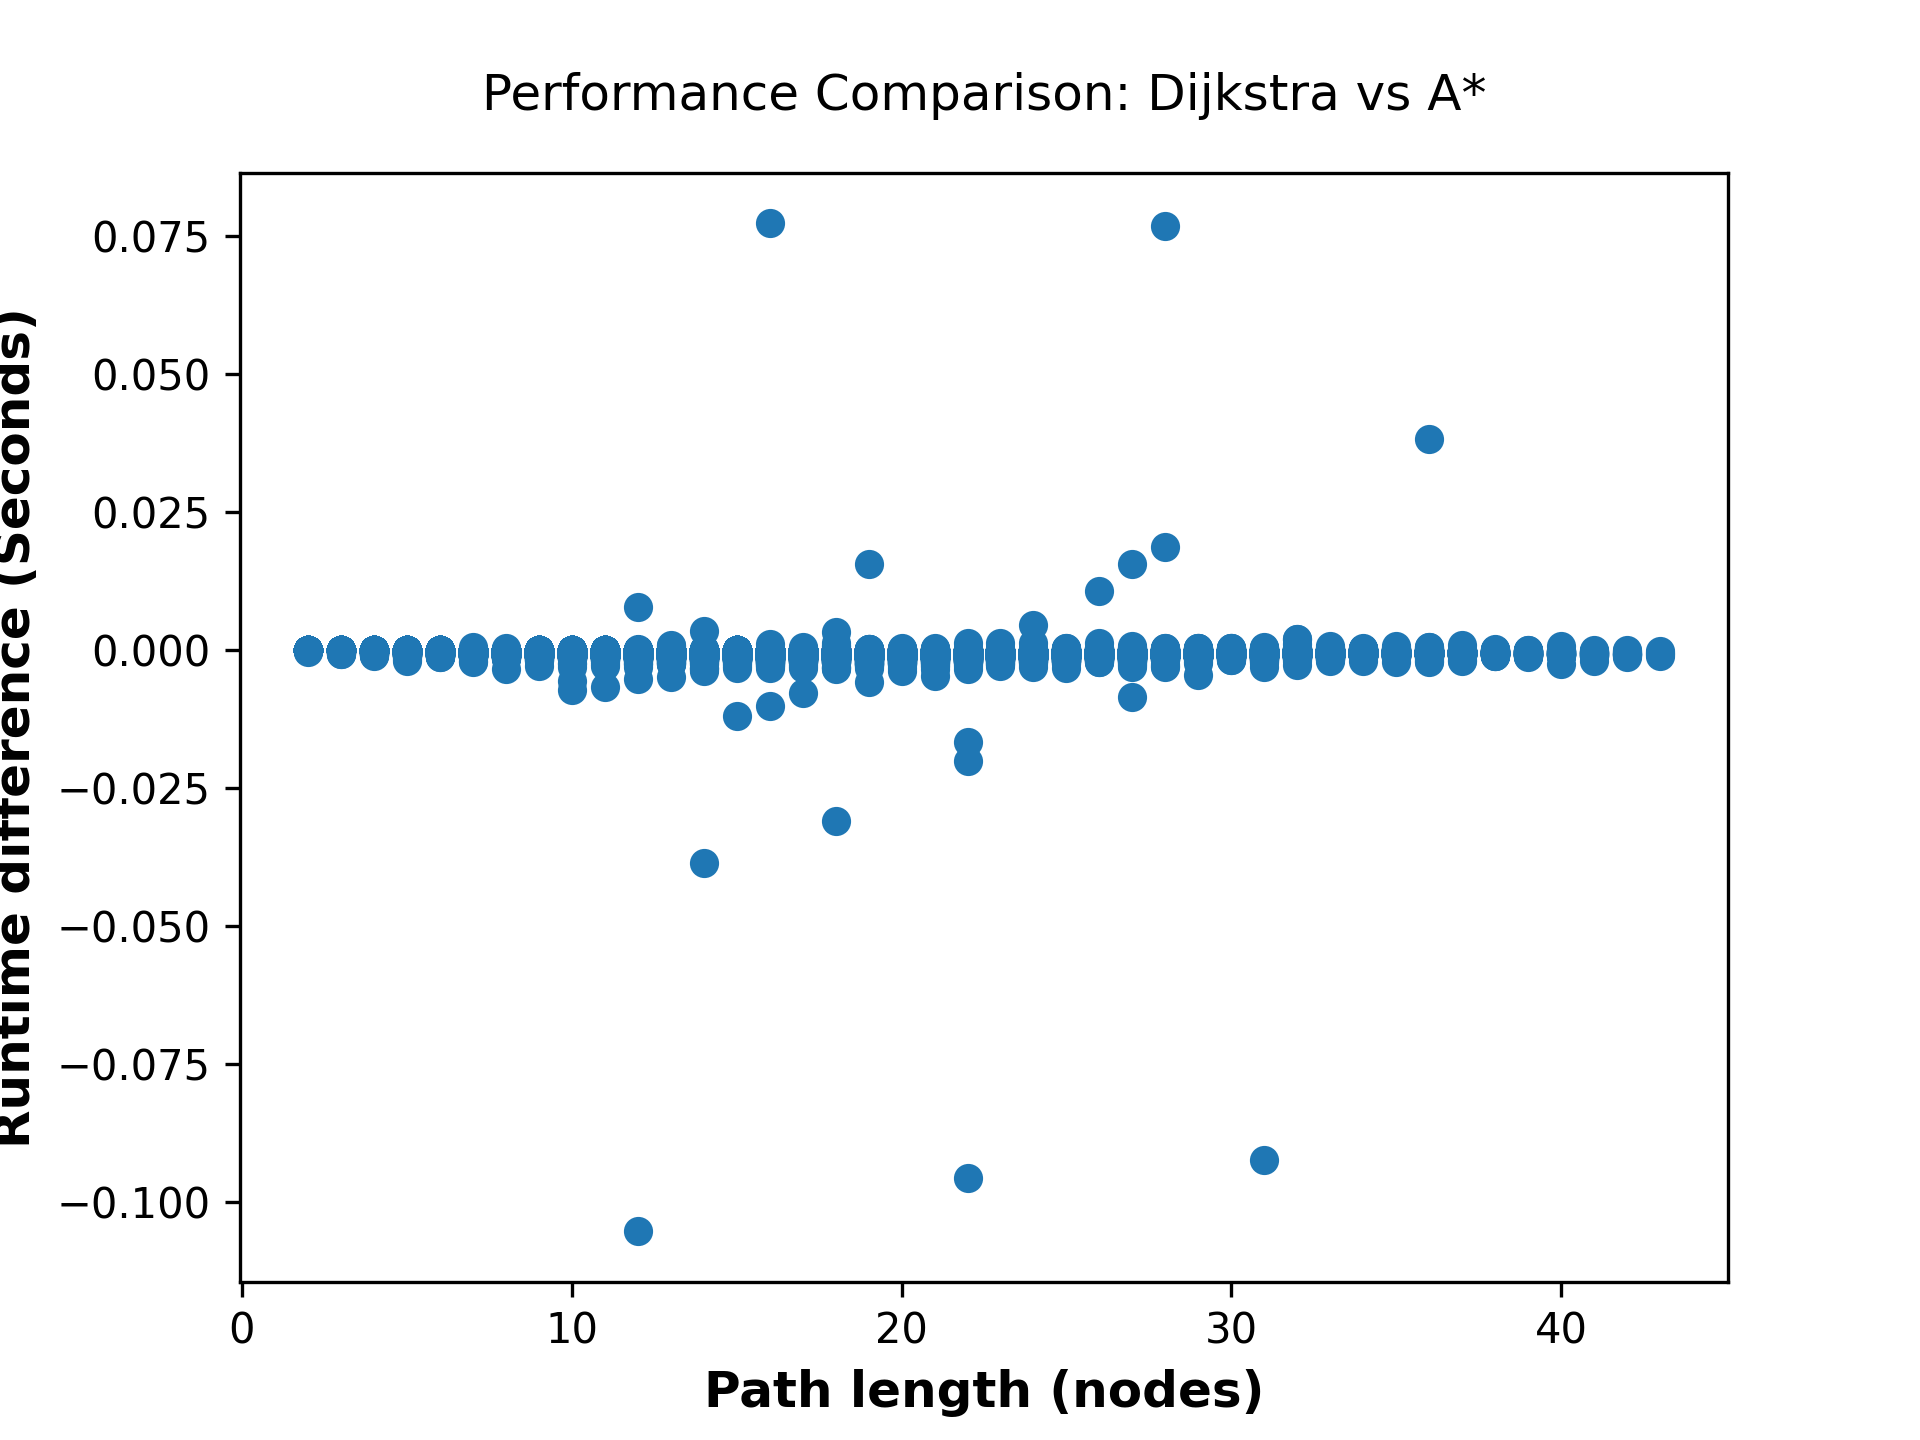
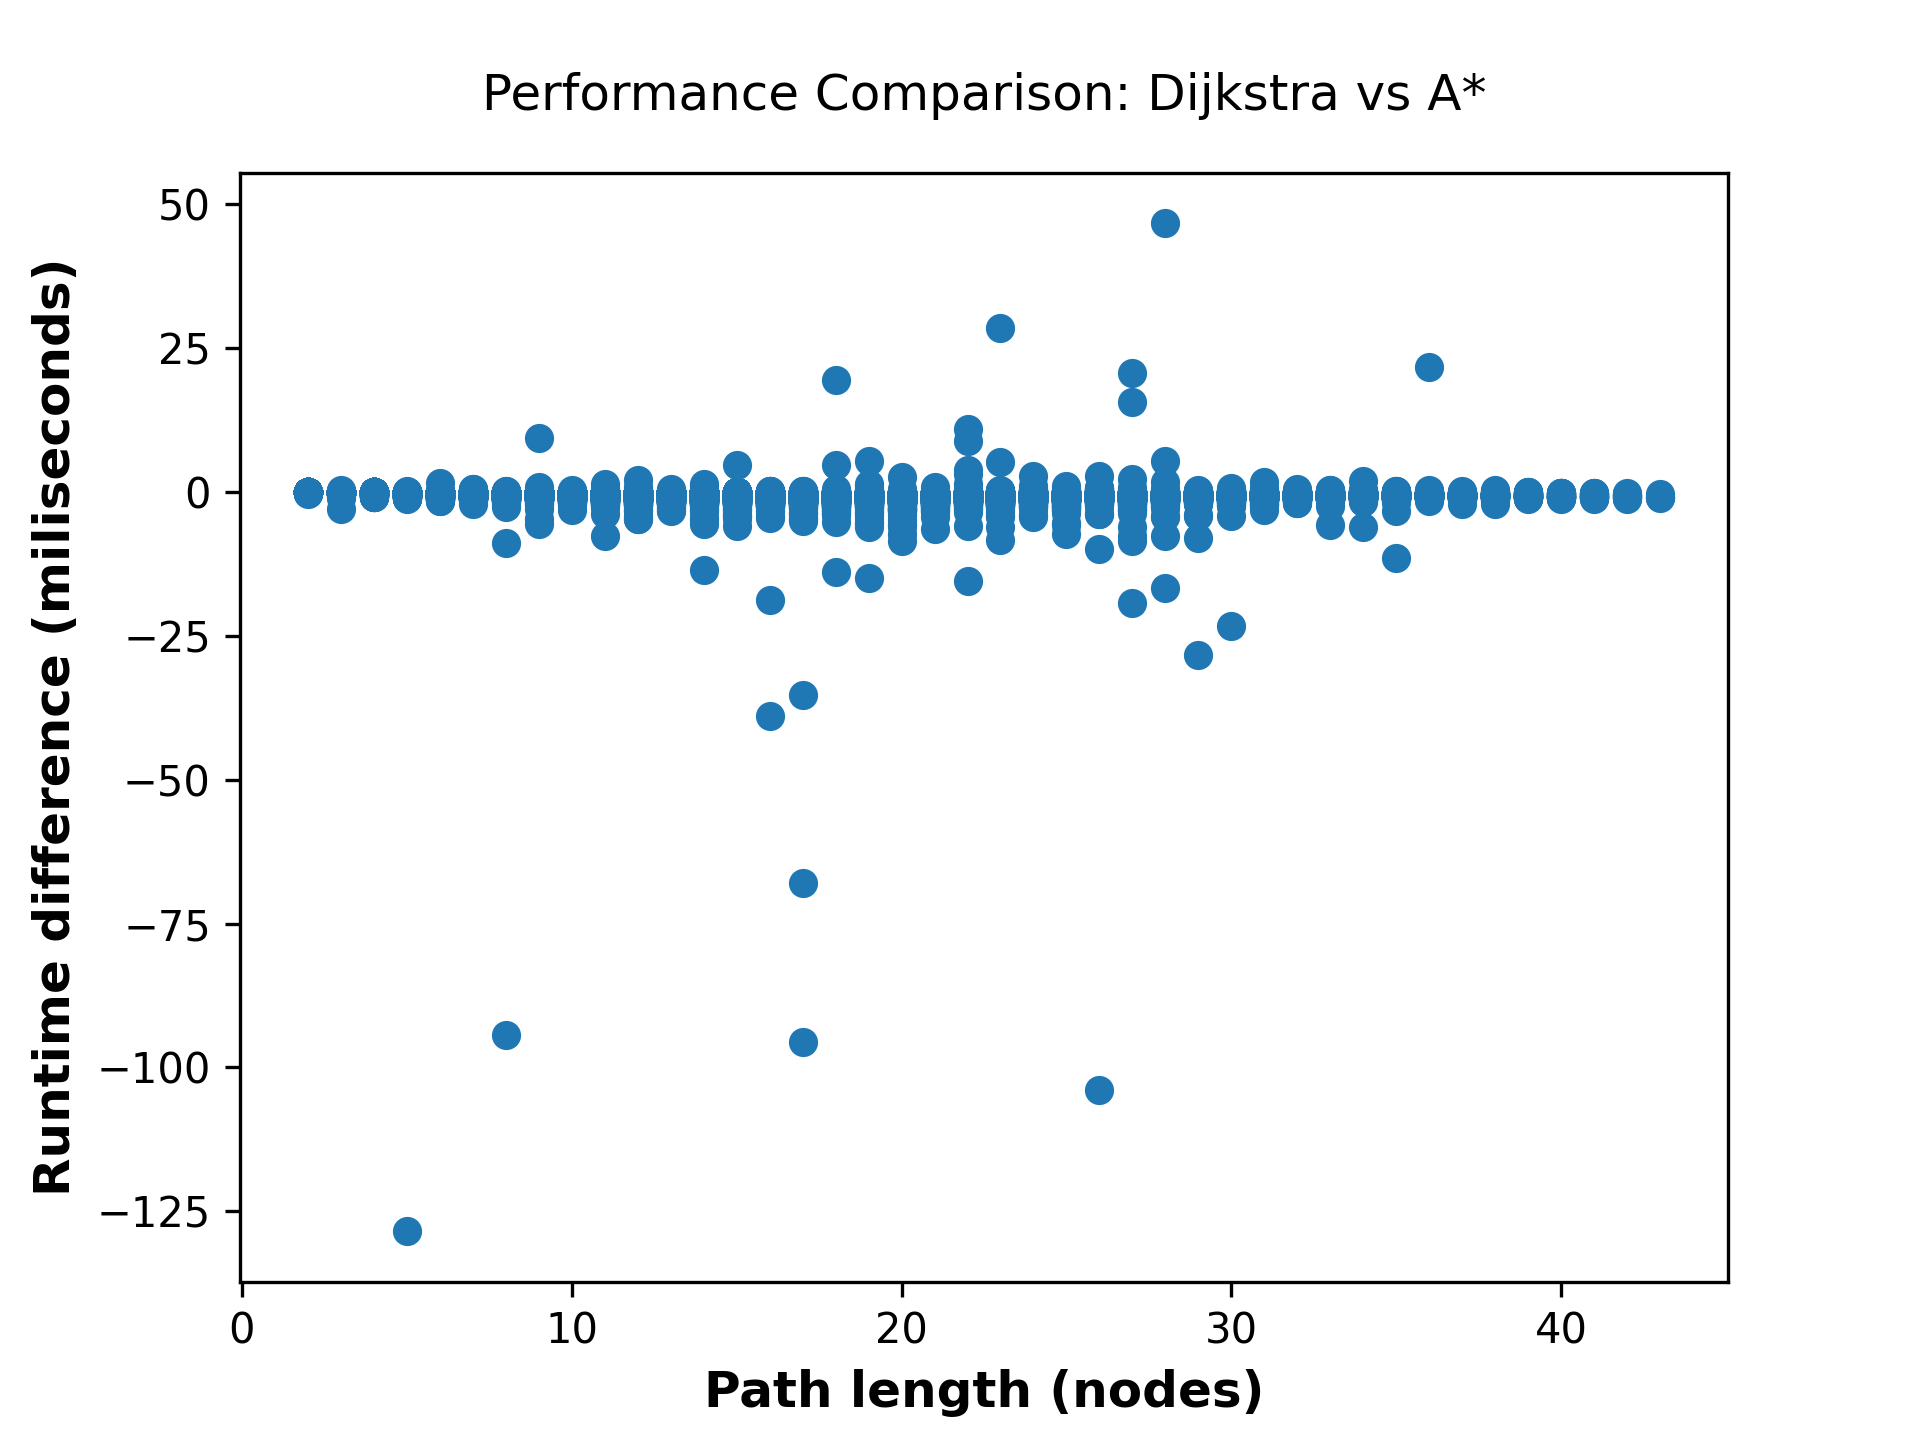
more experimentation

diff --git a/path_length_experiment.py b/path_length_experiment.py
@@ -11,6 +11,7 @@ for s in stations.keys():
             all_trips.append((s, d))
 
 
+large_paths = []
 time_diffs = []
 path_lengths = []
 for s, d in all_trips:
@@ -23,7 +24,7 @@ for s, d in all_trips:
     dijkstra_results = dijkstra(G, s, d)
     end = time.perf_counter()
     d_time = end - start
-    diff = a_time - d_time
+    diff = 1000*(a_time - d_time)
 
     time_diffs.append(diff)
     if (len(a_star_results[1]) != len(dijkstra_results[1])):
@@ -31,10 +32,29 @@ for s, d in all_trips:
         break
     else:
         path_lengths.append(len(a_star_results[1]))
+    if len(a_star_results[1]) > 20:
+        large_paths.append((s,d))
+    
+time_diffs = []
+path_lengths = []
+for s, d in large_paths:
+    start = time.perf_counter()
+    a_star_results = a_star(G, s, d, heuristic)
+    end = time.perf_counter()
+    a_time = (end - start)
+    
+    start = time.perf_counter()
+    dijkstra_results = dijkstra(G, s, d)
+    end = time.perf_counter()
+    d_time = end - start
+    diff = 1000*(a_time - d_time)
+
+    time_diffs.append(diff)
+    path_lengths.append(len(a_star_results[1]))
 
 plt.scatter(path_lengths, time_diffs)
 plt.xlabel('Path length (nodes)', fontsize=12, fontweight='bold')
-plt.ylabel('Runtime difference (Seconds)', fontsize=12, fontweight='bold')
+plt.ylabel('Runtime difference (miliseconds)', fontsize=12, fontweight='bold')
 plt.title('Performance Comparison: Dijkstra vs A*', pad=15)
-plt.savefig('Dijkstra_vs_A_star_pathlength.png', dpi=300)
+plt.savefig('Dijkstra_vs_A_star_largepaths.png', dpi=300)
 plt.show()

diff --git a/visited_experiment.py b/visited_experiment.py
@@ -24,6 +24,7 @@ def numTransfers(path):
         current = next
     return count
 
+
 a_num_seen = []
 d_num_seen = []
 path_length = []
